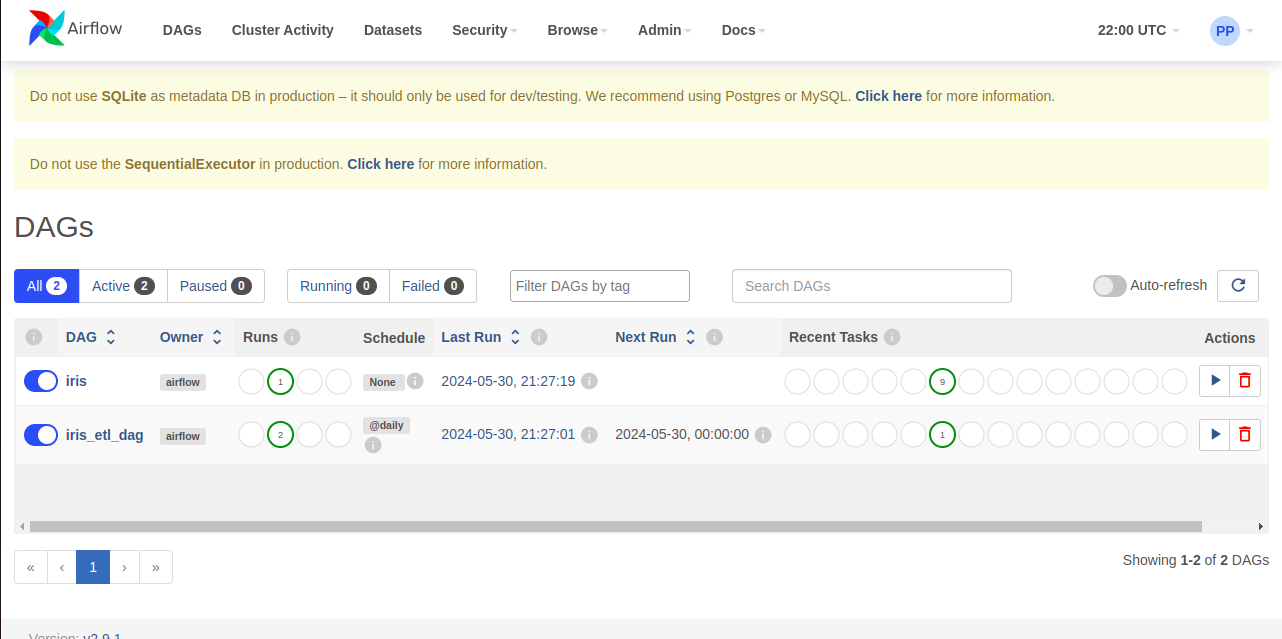
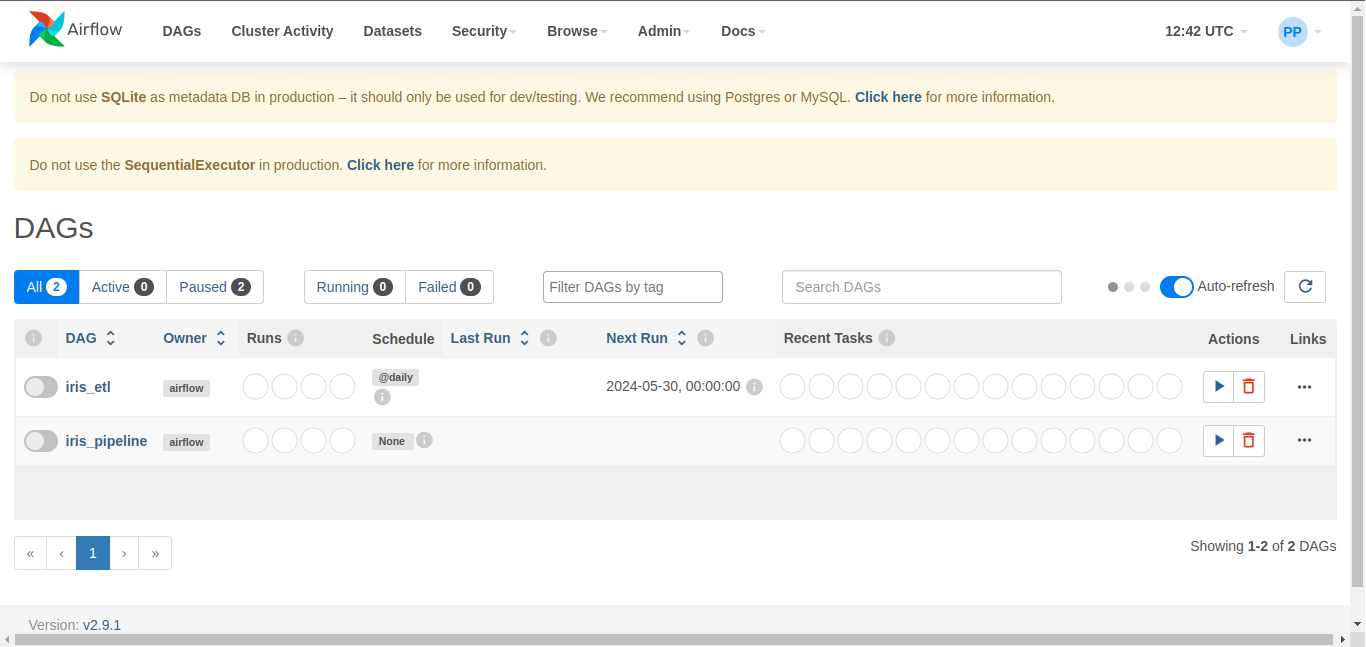
docs: update documentation

diff --git a/dataset_dag.py b/dataset_dag.py
@@ -37,17 +37,17 @@ def iris_etl(data_path: str, filename: str = 'iris.csv'):
 default_args = {
     'owner': 'airflow',
     'depends_on_past': False,
-    'start_date': datetime(2023, 5, 30),
+    'start_date': datetime.now(),
     'email_on_failure': False,
     'email_on_retry': False,
     'retries': 1,
 }
 
 with DAG(
-    'iris_etl_dag',
+    'iris_etl',
     default_args=default_args,
     description='A simple ETL DAG for the Iris dataset',
-    schedule_interval='@daily',
+    schedule_interval=None,
     catchup=False,
 ) as dag:
     

diff --git a/pipeline/configs.py b/pipeline/configs.py
@@ -1,7 +1,7 @@
 import os
 
 # Nome do pipeline
-PIPELINE_NAME = 'iris'
+PIPELINE_NAME = 'iris_pipeline'
 
 # Funções de treinamento e pré processamento
 PREPROCESSING_FN = 'pipeline.utils.preprocessing.preprocessing_fn'

diff --git a/README.md b/README.md
@@ -19,8 +19,8 @@ Certifique-se de ter o Docker e o Docker Compose instalados na sua máquina. Se 
 Para clonar este repositório, execute o seguinte comando:
 
 ```bash
-git clone https://github.com/seu-usuario/seu-repositorio.git
-cd seu-repositorio
+git clone https://github.com/helio004/iris-mlops-project.git
+cd iris-mlops-project
 ```
 
 # Executando o Deploy
@@ -56,7 +56,7 @@ password: admin
 
 # Iniciando o Pipeline de Treinamento
 
-1. No Airflow, encontre a DAG correspondente ao processo ETL.
+1. No Airflow, encontre a DAG correspondente ao processo Pipeline.
 2. Ative a DAG (ligue o botão ao lado do nome da DAG)
 3. Inicie a DAG manualmente clicando no botão de "Trigger DAG".
 
